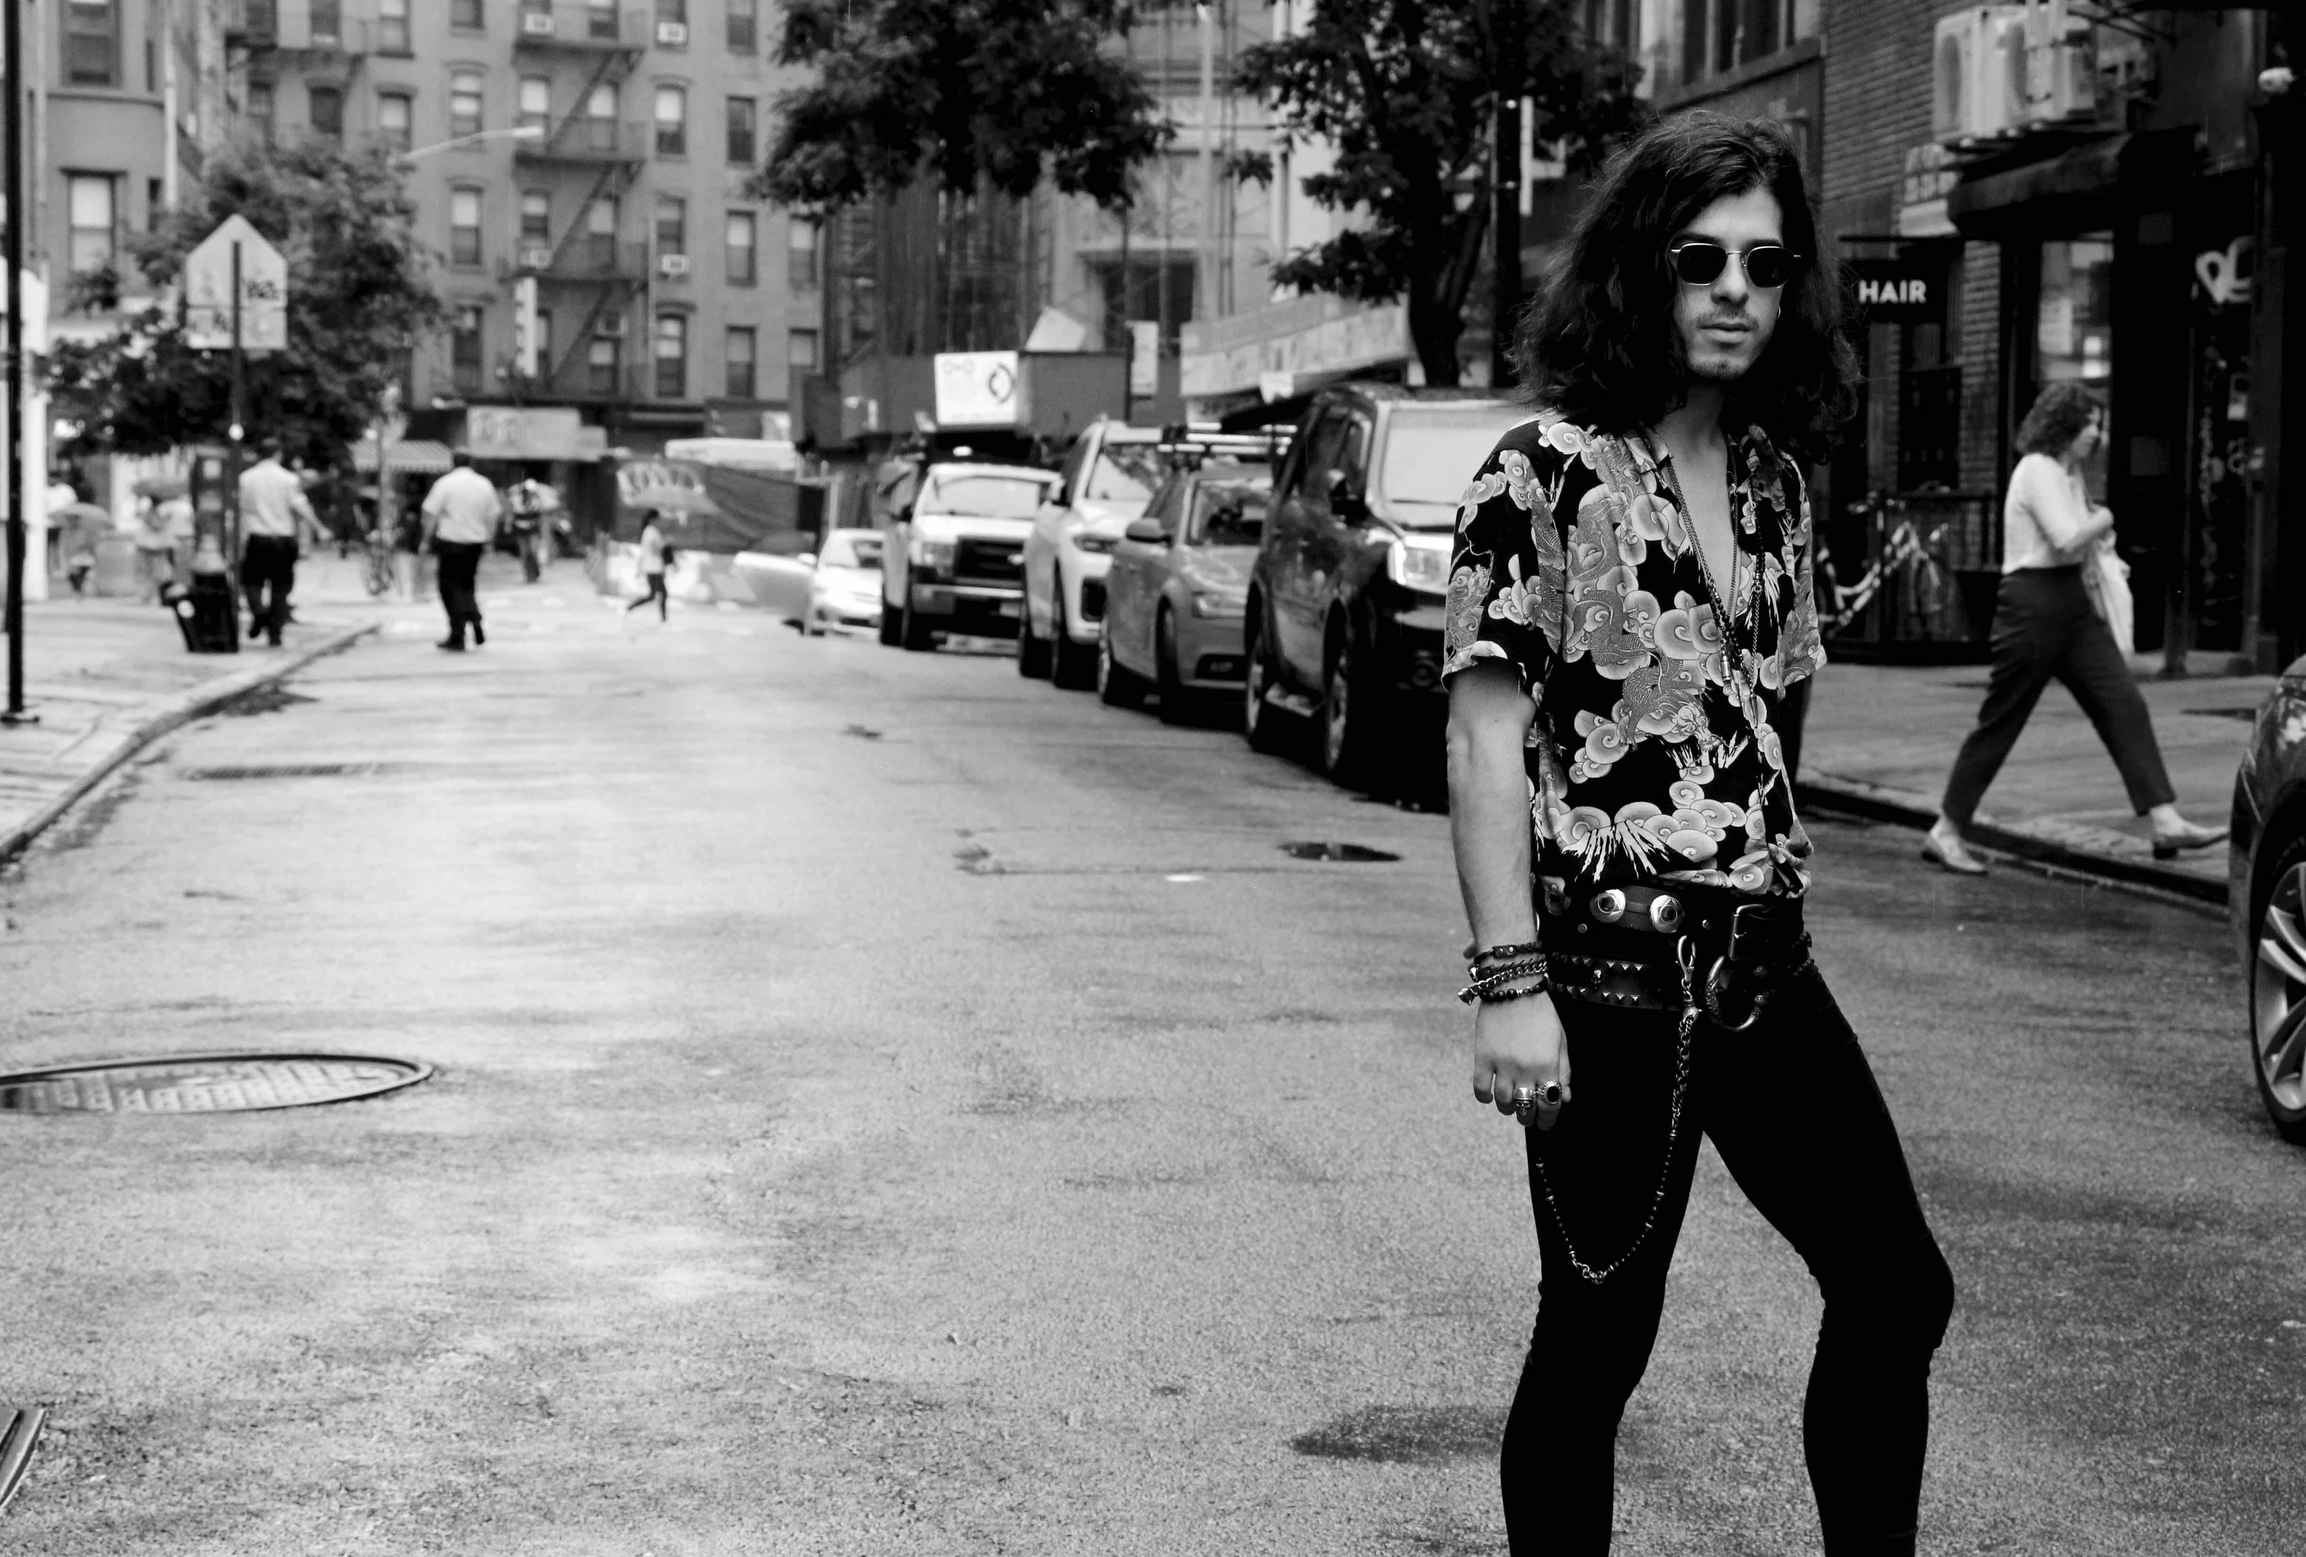
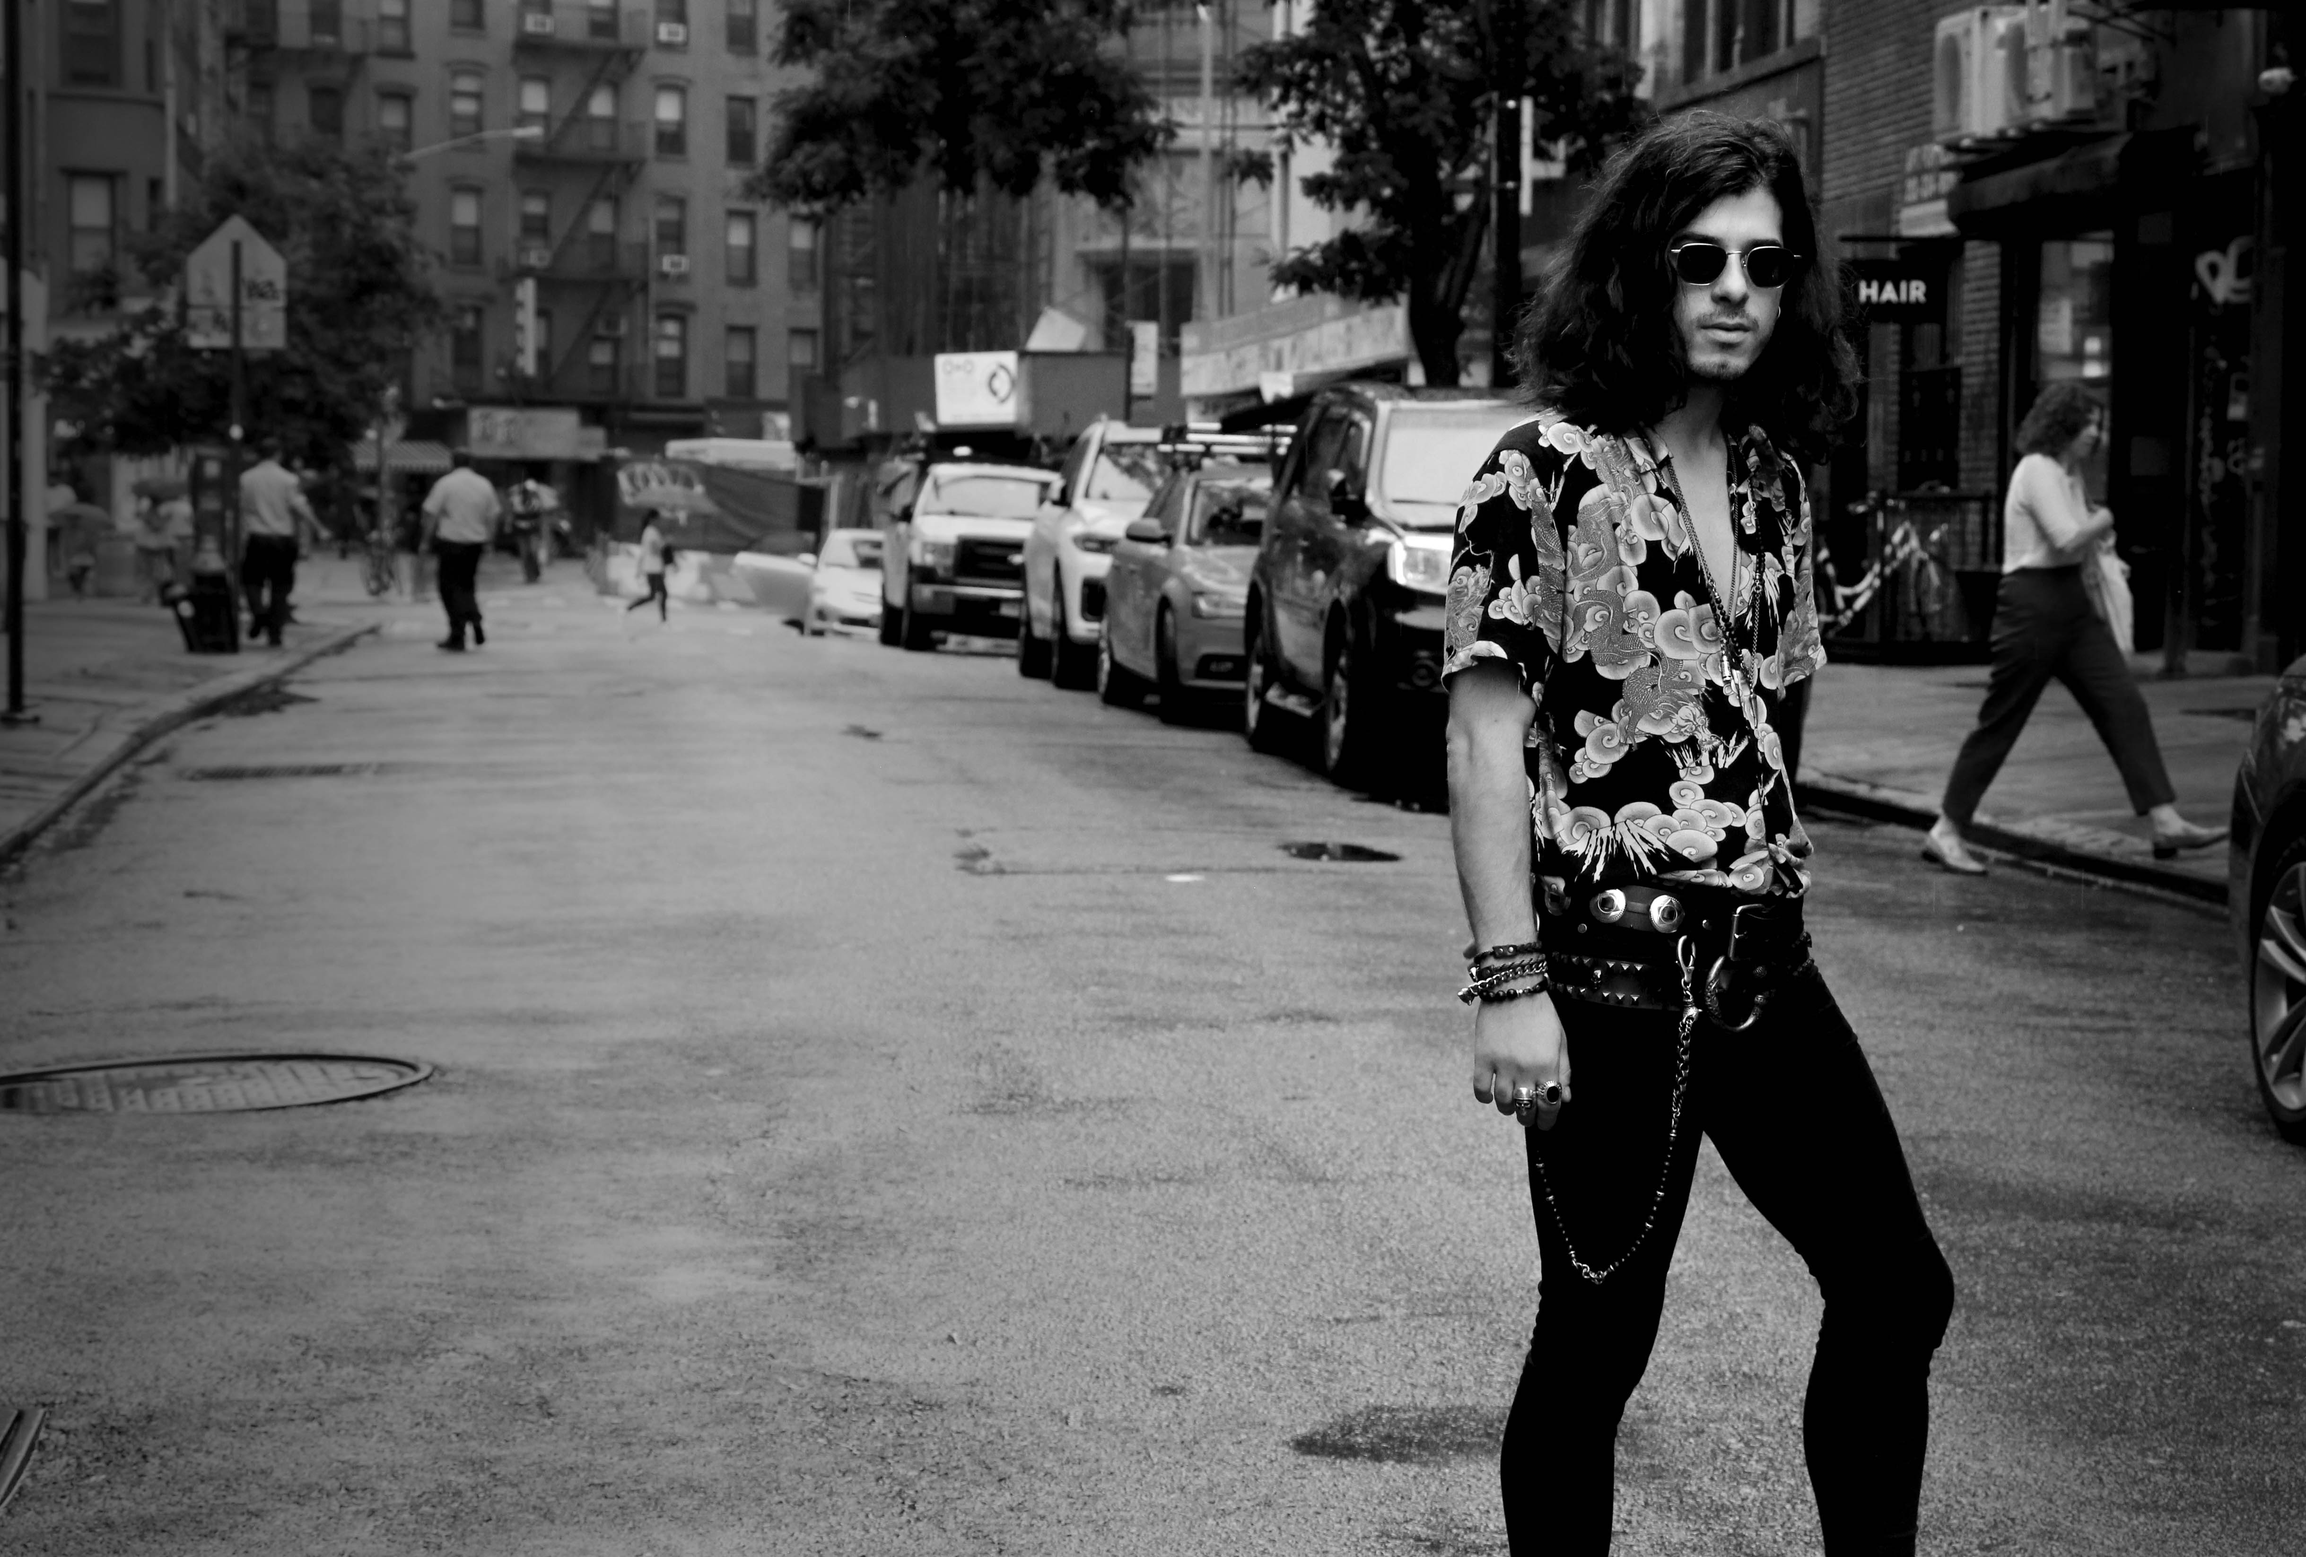
Updated hero image
Changed to a darker version of it to increase contrast on navigation

diff --git a/css/screen1.css b/css/screen1.css
@@ -25,7 +25,7 @@ a:hover {
 /* Hero section */
 /* background image*/
 .hero{
-  background-image: url('https://i.imgur.com/E259yZC.jpg');
+  background-image: url('https://i.imgur.com/7ob18zM.jpg');
   background-size: 100%;
   background-repeat: no-repeat;
   width: 100vw;
@@ -33,6 +33,12 @@ a:hover {
   margin-bottom: 0;
   padding-bottom: auto;
 }
+
+
+
+
+
+
 /* Style for "logo" */
 .logo{
 width: 19.625rem;
